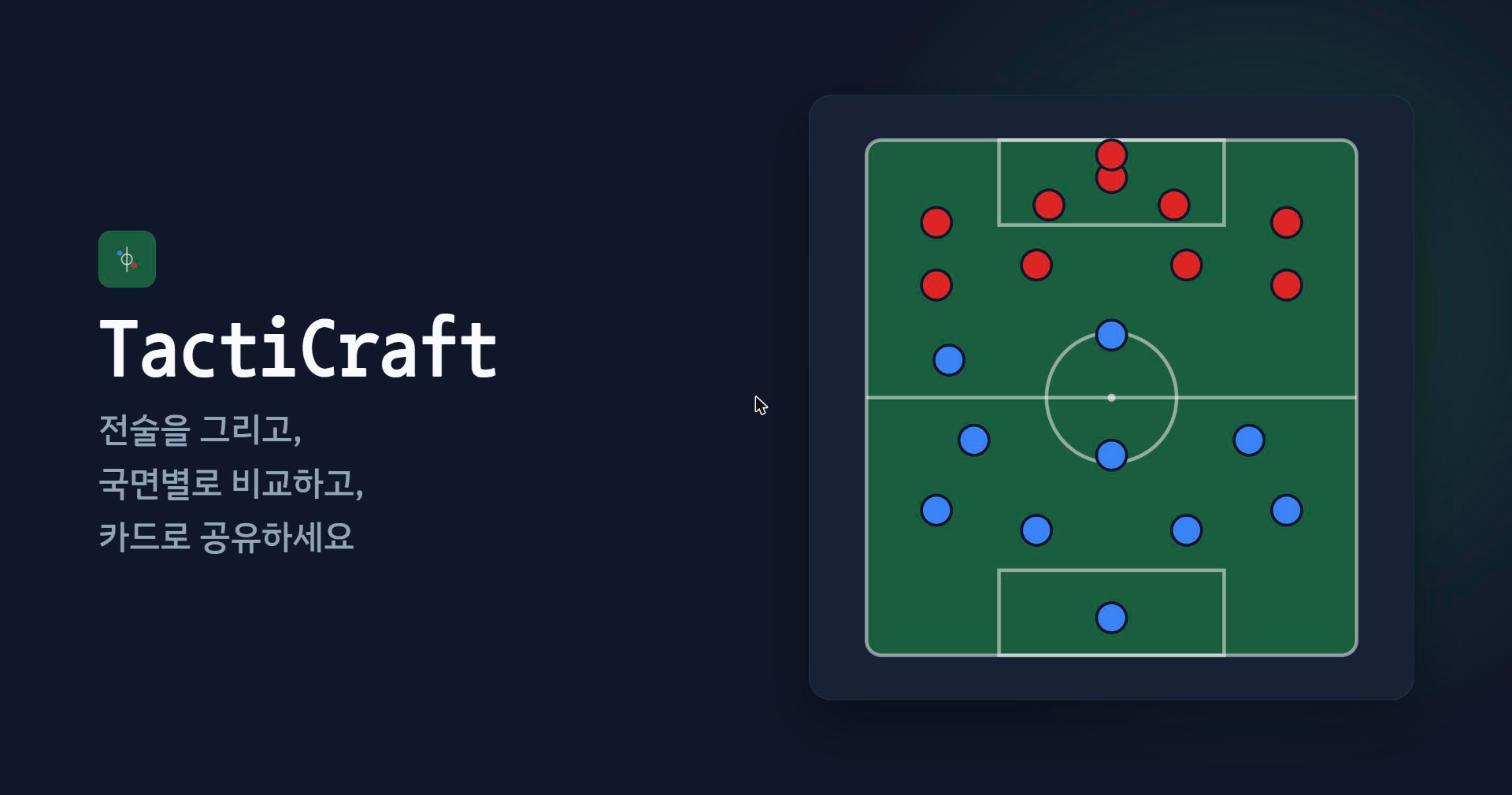
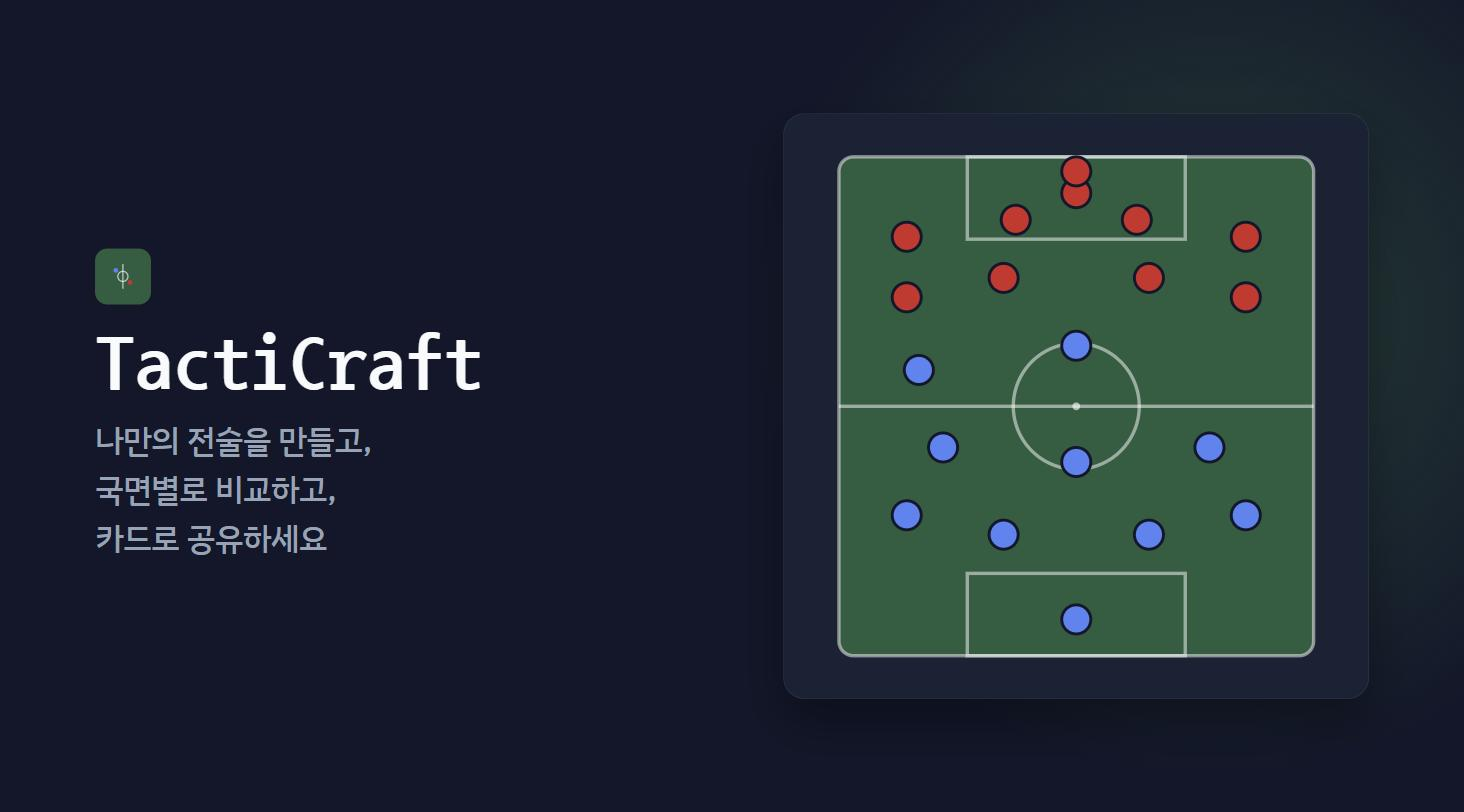
fix(seo): 디스크립션 문구 변경 + 홈 태그라인 동기화
"디스크립션을 '나만의 전술을 만들고, 국면별로 비교하고, 카드로
공유하세요'로 바꿔줘" — 메타 디스크립션·OG/Twitter description과 함께
같은 문구를 쓰던 홈 화면 태그라인(EditorPage.tsx)도 같이 바꿔 화면 문구와
메타 정보가 계속 일치하도록 유지했다. OG 이미지에도 태그라인이 그려져
있어 재캡처했다.

Claude-Session: https://claude.ai/code/session_01U1fcDaxjatr2Ag8rpSt3sL

diff --git a/frontend/index.html b/frontend/index.html
@@ -11,19 +11,19 @@
          og:image는 상대경로가 카카오톡·디스코드 등 일부 크롤러에서 안정적으로
          안 읽혀서 절대 URL로 못 박는다 — 배포 도메인이 바뀌면 같이 갱신해야
          한다(지금은 tacticraft.fly.dev, 커스텀 도메인 연결 시 갱신 필요). -->
-    <meta name="description" content="전술을 그리고, 국면별로 비교하고, 카드로 공유하세요." />
+    <meta name="description" content="나만의 전술을 만들고, 국면별로 비교하고, 카드로 공유하세요." />
     <meta property="og:type" content="website" />
     <meta property="og:site_name" content="TactiCraft" />
     <meta property="og:title" content="TactiCraft" />
-    <meta property="og:description" content="전술을 그리고, 국면별로 비교하고, 카드로 공유하세요." />
+    <meta property="og:description" content="나만의 전술을 만들고, 국면별로 비교하고, 카드로 공유하세요." />
     <meta property="og:url" content="https://tacticraft.fly.dev/" />
     <meta property="og:image" content="https://tacticraft.fly.dev/og-image.jpg" />
-    <meta property="og:image:width" content="1512" />
-    <meta property="og:image:height" content="795" />
+    <meta property="og:image:width" content="1464" />
+    <meta property="og:image:height" content="812" />
     <meta property="og:locale" content="ko_KR" />
     <meta name="twitter:card" content="summary_large_image" />
     <meta name="twitter:title" content="TactiCraft" />
-    <meta name="twitter:description" content="전술을 그리고, 국면별로 비교하고, 카드로 공유하세요." />
+    <meta name="twitter:description" content="나만의 전술을 만들고, 국면별로 비교하고, 카드로 공유하세요." />
     <meta name="twitter:image" content="https://tacticraft.fly.dev/og-image.jpg" />
     <!-- Hallmark 감사(2026-09-11) 후 폰트 페어링 도입 — 본문은 IBM Plex Sans KR
          (한글 전체 지원). 헤딩은 원래 IBM Plex Mono(라틴 전용)로 시도했으나,

diff --git a/frontend/src/routes/EditorPage.tsx b/frontend/src/routes/EditorPage.tsx
@@ -109,7 +109,7 @@ export function EditorPage() {
         <div className="relative mx-auto flex w-full max-w-4xl flex-col items-center gap-10 px-6 py-10 lg:flex-row lg:items-center lg:justify-center">
           <div className="flex w-full max-w-md flex-col items-center gap-5 text-center">
             <p className="text-lg font-semibold text-foreground">
-              전술을 그리고, 국면별로 비교하고, 카드로 공유하세요
+              나만의 전술을 만들고, 국면별로 비교하고, 카드로 공유하세요
             </p>
             {/* 참고 사이트처럼 타원형(pill) 버튼으로 — 기본 Button은 rounded-md라
              * 이 버튼에만 rounded-full을 얹는다(사이트 전역 버튼 모양을 바꾸는

diff --git a/docs/TO-DO-LIST.md b/docs/TO-DO-LIST.md
@@ -466,6 +466,7 @@
   - **메타 태그**: `frontend/index.html`에 `<meta name="description">` + Open Graph(`og:type`/`site_name`/`title`/`description`/`url`/`image`/`image:width`/`image:height`/`locale`) + Twitter Card(`summary_large_image`) 태그를 추가했다. `og:image`는 상대경로 대신 절대 URL(`https://tacticraft.fly.dev/og-image.jpg`)로 못 박았다 — 카카오톡·디스코드 등 일부 크롤러가 상대경로 OG 이미지를 안정적으로 못 읽는 경우가 있어서다. 배포 도메인이 나중에 커스텀 도메인으로 바뀌면 이 URL들도 같이 갱신해야 한다(TO-DO에 남겨둠 — 아직 요청 전이라 미착수).
 - **검증**: 프론트 `tsc -b`(0 errors) / `npm run lint`(0 errors) / `npx vitest run`(208 전부 통과) / `npm run build` 성공(빌드 산출물에 `favicon.svg`·`og-image.jpg`·확장된 `index.html`(1.22kB→2.46kB) 전부 포함 확인). claude-in-chrome + curl로 로컬 개발 서버에서 메타 태그 전체·파비콘 서빙 확인 → Fly.io 재배포 → `https://tacticraft.fly.dev/`에서 `curl`로 메타 태그 15개 전부·`favicon.svg`(200)·`og-image.jpg`(200) 실제 서빙까지 확인했다.
 - **미확인**: 실제 카카오톡/Discord/Slack/Facebook 등에 링크를 붙여넣었을 때 미리보기 카드가 의도대로(이미지·제목·설명) 렌더링되는지는 각 플랫폼의 크롤러가 캐시를 가지고 있어 이 세션에서 직접 확인하지 못했다 — 처음 공유할 때 카드가 비거나 옛 정보로 보이면 각 플랫폼의 캐시 새로고침 도구(예: Facebook Sharing Debugger)를 한 번 돌려야 할 수 있다.
+- **후속 수정(같은 날)**: "디스크립션을 '나만의 전술을 만들고, 국면별로 비교하고, 카드로 공유하세요'로 바꿔줘" — 메타 디스크립션·OG/Twitter description 3곳뿐 아니라, 애초에 이 문구를 그대로 가져왔던 홈 화면 태그라인(`EditorPage.tsx`)도 같이 바꿔서 화면 문구와 메타 정보가 계속 일치하도록 유지했다(사용자가 화면 쪽은 언급하지 않았지만, "화면 문구와 어긋나지 않게" 맞췄다는 구현 당시 설계 근거를 그대로 지키려면 한쪽만 바꾸면 안 됐다). OG 이미지에도 태그라인 텍스트가 그려져 있어서 `_og-render.html`을 다시 만들어 재캡처(1464×812)하고 `og:image:width`/`height`도 새 크기로 갱신했다. Fly.io 재배포 후 `curl`로 새 문구가 실제 서빙되는 것까지 확인.
 
 ## 기각 기록
 
